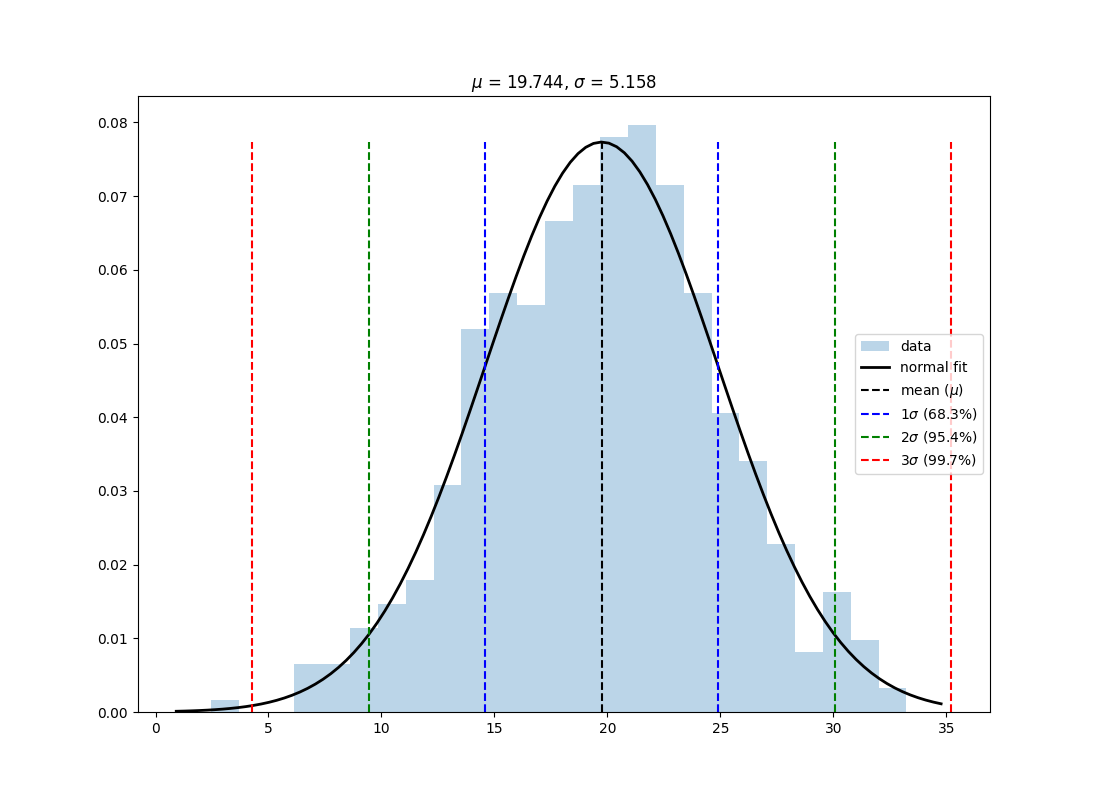
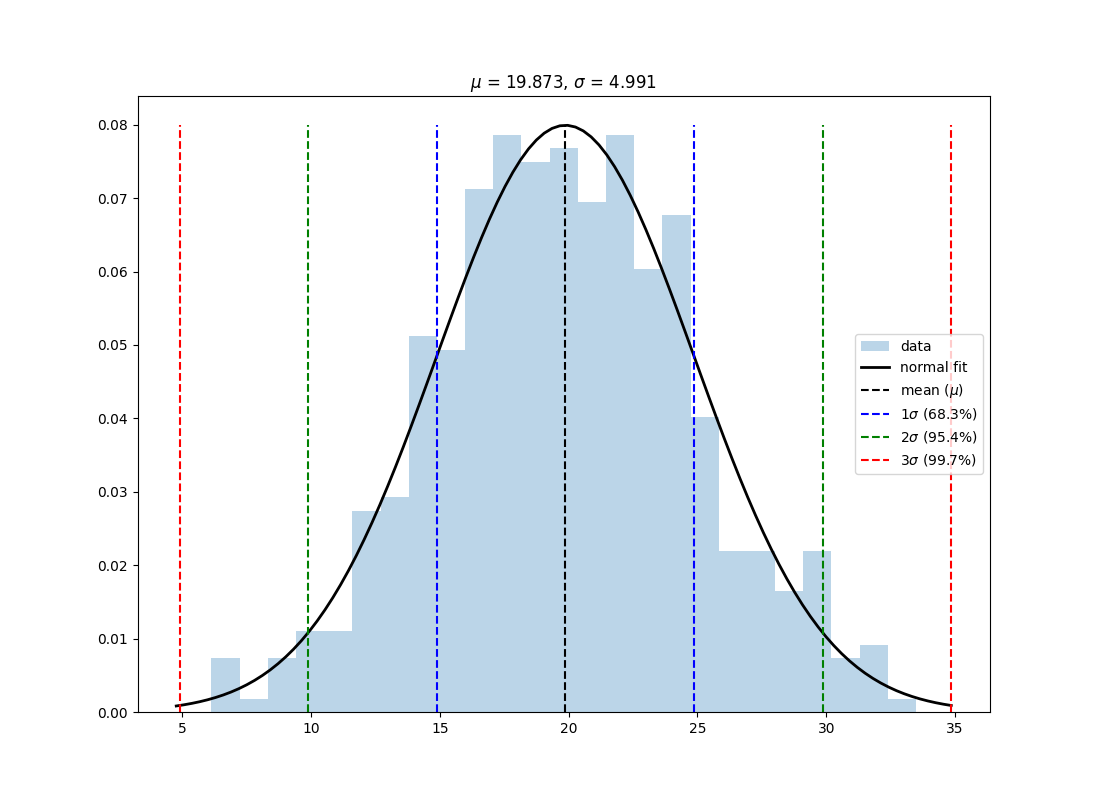
Change random seed

diff --git a/statistics/normal_examples.py b/statistics/normal_examples.py
@@ -6,6 +6,6 @@ import os
 
 os.chdir("pytools/statistics")
 
-np.random.seed(555)  # Ensures repeatable arrival at the same random data
+np.random.seed(0)  # Ensures repeatable arrival at the same random data
 data = np.random.normal(20, 5, size=500)  # Generate normally distributed random data
 fit_normal(data, plot=True, save_as="normal_examples_plot_fit.png")  # Fit that data
